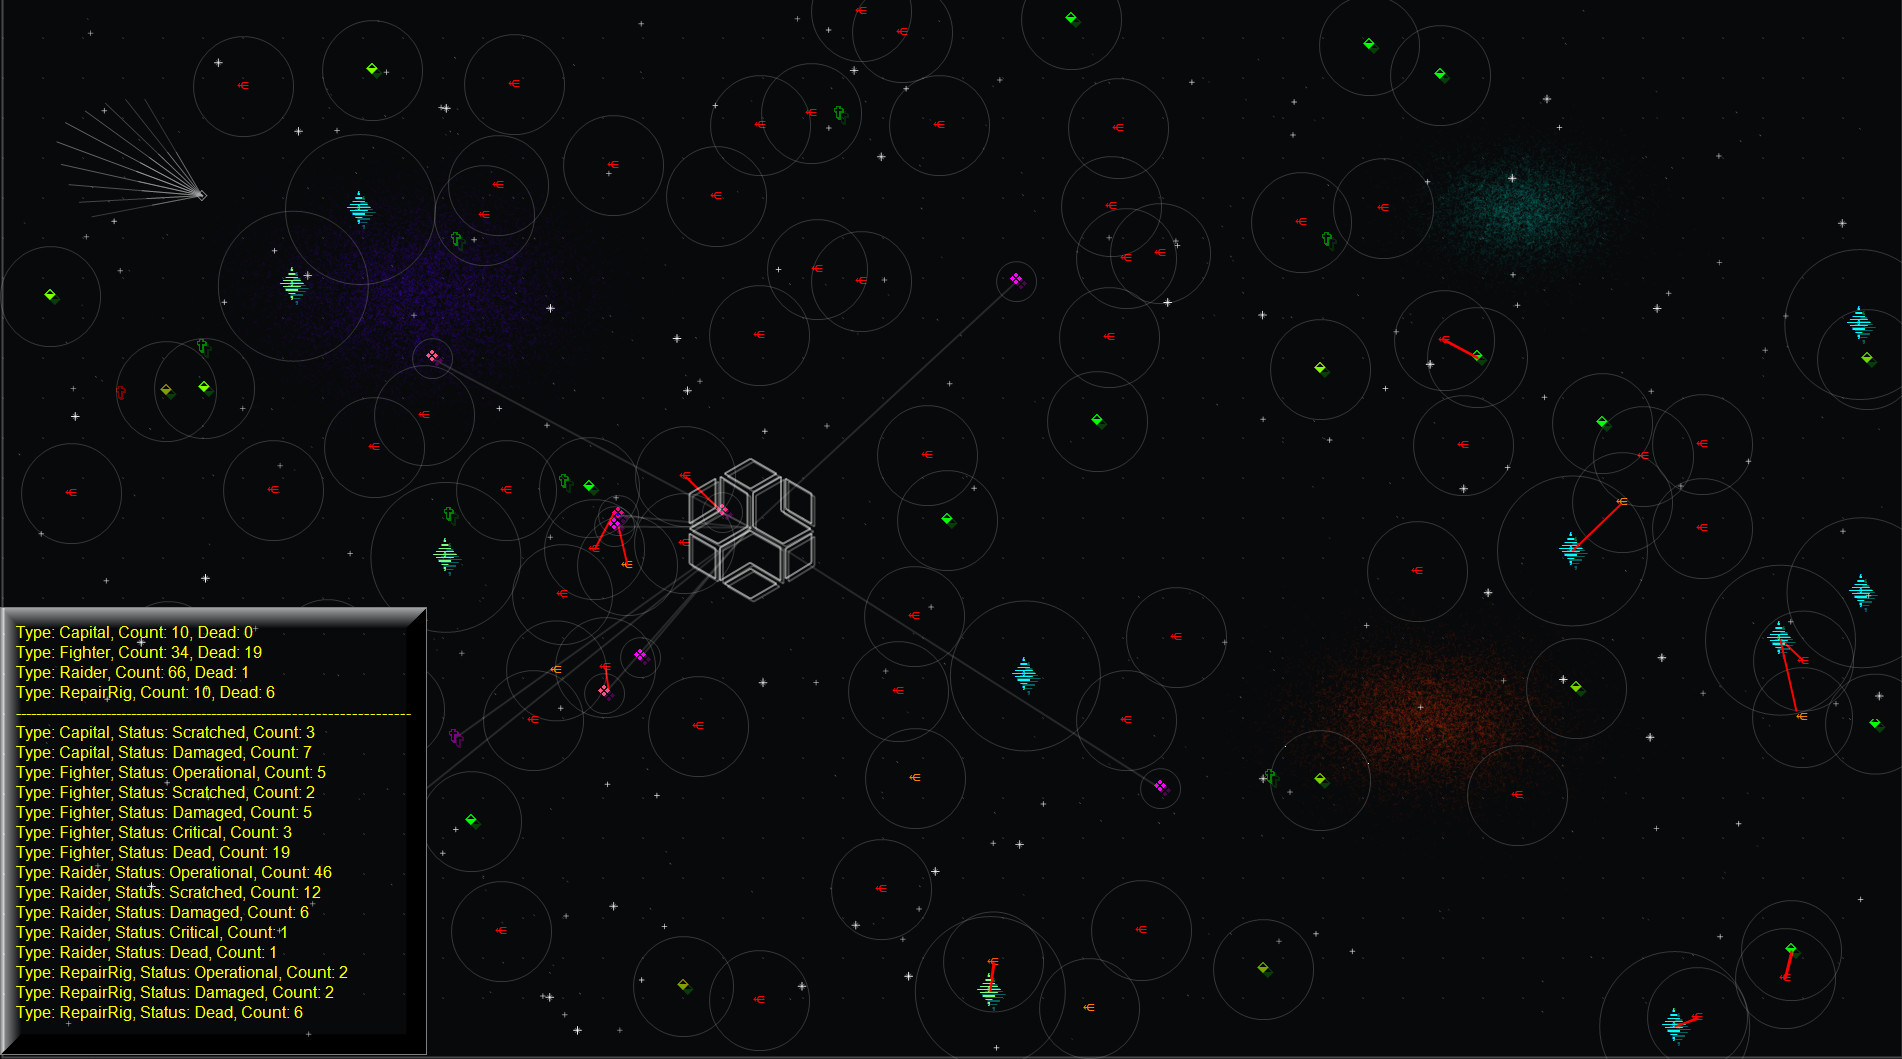
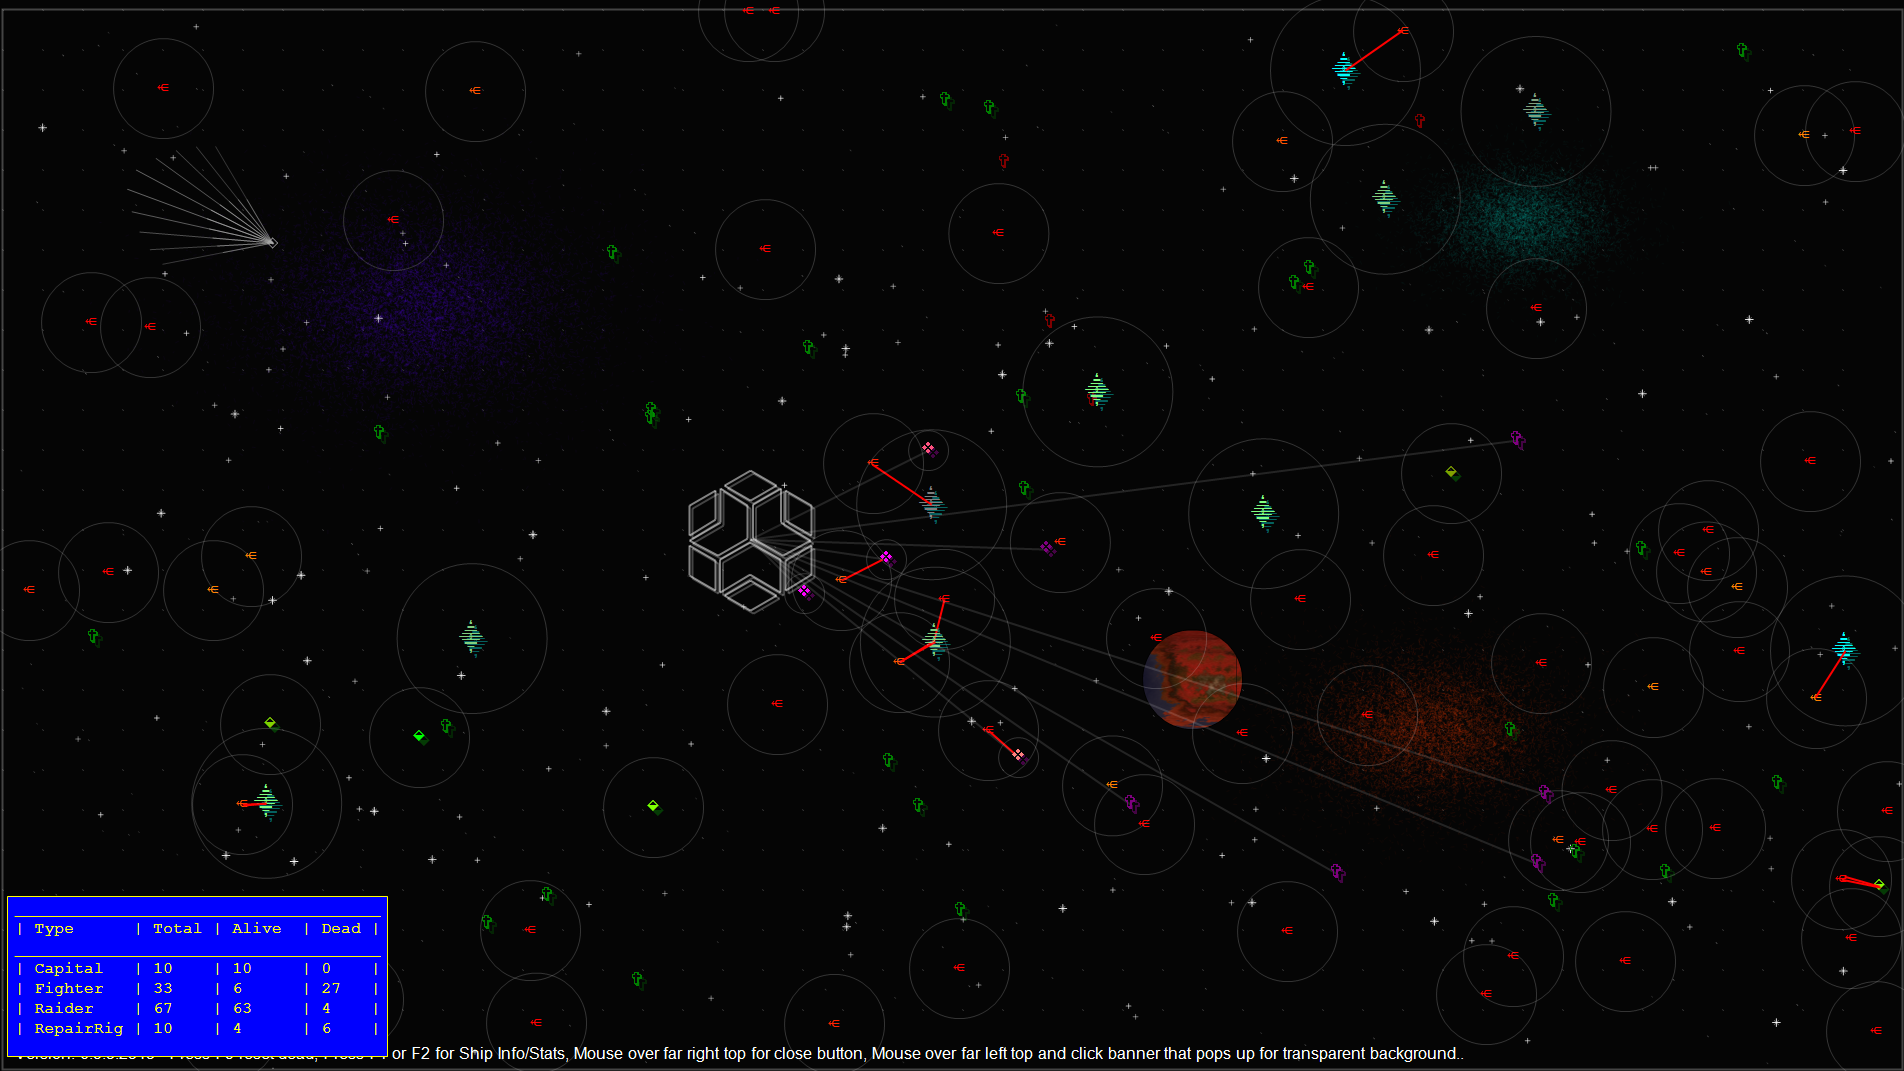
Updated readme and image.for readme

diff --git a/README.md b/README.md
@@ -1,6 +1,6 @@
 # SpaceBattleSim — Space Battleground Simulation
 
-A pure **.NET 8 / WinForms** battlefield simulation that demonstrates how to build real-time 2-D graphics **without any third-party rendering libraries**. Everything you see — nebulae, stars, ships, lasers, repair-beams, the grid, shadow effects, and colour blending — is drawn directly with `System.Drawing` (`Graphics`, `Pen`, `Brush`, `Font`, Unicode symbols).
+A pure **.NET 8 / WinForms** battlefield simulation that demonstrates how to build real-time 2-D graphics **without any third-party rendering libraries**. Everything you see — nebulae, stars, moving comet, rotating planet, ships, lasers, repair-beams, the grid, shadow effects, and color blending — is drawn directly with `System.Drawing` (`Graphics`, `Pen`, `Brush`, `Font`, Unicode symbols, planet image dynamic resize/wrap for rotation).
 
 ---
 
@@ -24,7 +24,7 @@ A pure **.NET 8 / WinForms** battlefield simulation that demonstrates how to bui
 
 ## What It Is
 
-**SpaceBattleSim** has no interaction except to look at stats.  It spawns a configurable fleet of spaceships dynamically on a dark grid with 3 Nebulae, many stars, a flying comet, and Raiders against Friendly fighting autonomously. Ships move randomly across the canvas, detect enemies inside their *hitbox radius*, fire lasers, take damage, and either die or get revived by a healer, if friendly. The entire simulation runs with no game engine or graphics framework — it is a showcase of raw WinForms `OnPaint` / `Timer`-driven rendering with zero jumpiness or lag.
+**SpaceBattleSim** has no interaction except to look at stats.  It spawns a configurable fleet of spaceships dynamically on a dark grid with 3 Nebulae, many stars, a flying comet, rotating planet, and Raiders fighting against Friendly autonomously. Ships move randomly across the canvas, detect enemies inside their *hitbox radius*, fire lasers, take damage, and either die or get revived by a healer, if friendly. The entire simulation runs with no game engine or graphics framework — it is a showcase of raw WinForms `OnPaint` / `Timer`-driven rendering with zero jumpiness or lag.
 
 ![Battleground full-screen view](imgs/full_screen_view.png)
 
@@ -37,13 +37,13 @@ A pure **.NET 8 / WinForms** battlefield simulation that demonstrates how to bui
 ## Features
 
 - **Flawless and Pure `System.Drawing` rendering** — no Unity, MonoGame, SkiaSharp, or similar.
-- **Space background** — Nebulae, radom Stars, and a flying Comet.  All to make it more of a space simulation.
+- **Space background** — Nebulae, radom Stars, rotating planet, and a flying Comet.  All to make it more of a space simulation.
 - **100+ ship fleet** — configurable via constants in `BgPlatform.cs`.
 - **4 active ship classes** — RepairRig/Healer, Capital Ship, Fighter, Raider — each with unique stats and behavior.
 - **Per-ship independent threads** — every ship runs its AI loop on its own background thread.
 - **Thread-safe shared state** — a `ConcurrentDictionary` tracks every ship's current position and health, readable by all threads simultaneously.
 - **Conflict-free repair assignments** — a second thread-safe dictionary ensures only one RepairRig claims a dead ally at a time.
-- **Dynamic colour health indicator** — ship colour shifts as shields drop (green → yellow → orange → red → green tombstone).
+- **Dynamic color health indicator** — ship color shifts as shields drop (green → yellow → orange → red → green tombstone).
 - **Laser and repair-beam rendering** — red laser lines for attacks, blue repair-beam lines for recovery.
 - **F-key HUD overlays** — press F1/F2 to view live ship stats; press F5 to instantly revive all dead ships.
 - **Unicode ship symbols** — each class is rendered as a distinct Unicode glyph using the Arial font.  Found in [SpaceBattleSim\models\ships\ShipStats.cs](SpaceBattleSim/models/ships/ShipStats.cs).
@@ -175,10 +175,10 @@ SpaceBattleSim/
 │   ├── DText.cs               # Text rendering model
 │   └── ItemReq.cs             # Paint request wrapper
 ├── services/
-│   ├── ColorConvert.cs        # Colour blending / damage-colour utilities
+│   ├── ColorConvert.cs        # color blending / damage-color utilities
 │   └── Logger.cs              # Simple async thread-safe file logger
 └── utils/
-    ├── StaticConfig.cs        # Global UI style constants (colours, pens, brushes, fonts)
+    ├── StaticConfig.cs        # Global UI style constants (colors, pens, brushes, fonts)
     ├── DDefaults.cs           # Drawing defaults (shadow, border, laser pens)
     ├── About.cs               # Assembly version helper
     └── atomic/
@@ -194,7 +194,7 @@ SpaceBattleSim/
 | Package | Purpose | Found in... |
 |---------|---------|-------------|
 | `Chizl.ThreadSupport` | Atomic primitives (`ABool`, `ADateTime`, `EventStatus`) for lock-free thread safety | [`SpaceBattleSim/utils/atomic/`](SpaceBattleSim/utils/atomic/) |
-| `Chizl.ColorExtension` | Colour manipulation helpers used during dynamic ship colour merging | [`SpaceBattleSim/services/ColorConvert.cs`](SpaceBattleSim/services/ColorConvert.cs) |
+| `Chizl.ColorExtension` | color manipulation helpers used during dynamic ship color merging | [`SpaceBattleSim/services/ColorConvert.cs`](SpaceBattleSim/services/ColorConvert.cs) |
 | `Chizl.Applications` | Application metadata helpers (`About`) | [`SpaceBattleSim/utils/About.cs`](SpaceBattleSim/utils/About.cs) |
 | `Chizl.StandAloneLogging` | Async thread-safe file logger | [`SpaceBattleSim/utils/Logger.cs`](SpaceBattleSim/utils/Logger.cs) |
 